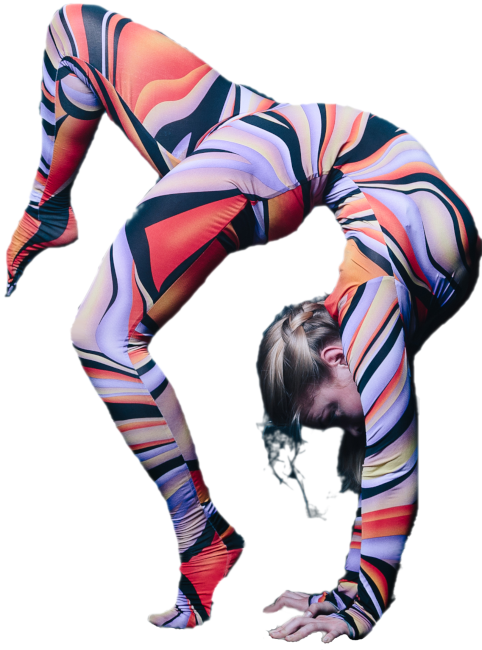
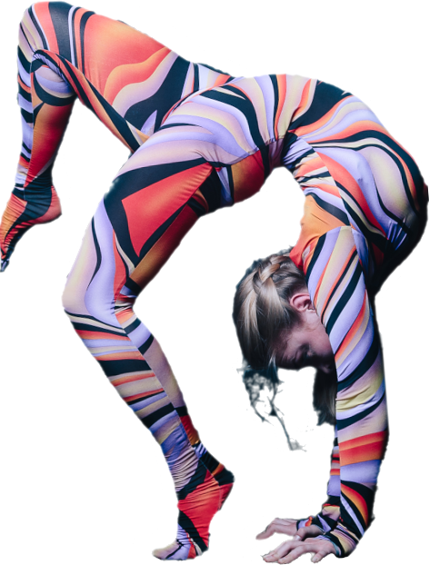
Circus folk image changes: adds CSS changes and removes old circus people images.

diff --git a/web/themes/custom/badcamp_2018/sass/components/_block_aboutbadcamp.scss b/web/themes/custom/badcamp_2018/sass/components/_block_aboutbadcamp.scss
@@ -1,18 +1,18 @@
-#block-aboutbadcamp{
+#block-aboutbadcamp {
   @include background-img('../images/background-about.png', cover, center, repeat);
   color: $white;
 
-  > div{
+  > div {
     position: relative;
   }
 
-  p{
+  p {
     font-size: 28px;
     line-height: 1.36;
     margin: 0;
   }
 
-  .left{
+  .left {
     @include background-img('../images/left_stars.svg', contain);
   }
 
@@ -20,7 +20,7 @@
     @include background-img('../images/right_stars.svg', contain);
   }
 
-  .header-img{
+  .header-img {
     height: 100px;
     @include background-img('../images/about_badcamp.svg', cover);
     margin: 25px 0;
@@ -31,7 +31,7 @@
     }
   }
 
-  .footer-img{
+  .footer-img {
     @include background-img('../images/about_badcamp_bottom.svg', cover);
     height: 50px;
     margin: 35px 0;
@@ -41,13 +41,13 @@
     }
   }
 
-  .strongman{
-    @include background-img('../images/strongman.png', contain, bottom center);
+  .circusman {
+    @include background-img('../images/circusman.png', contain, bottom center);
 
-    width: 539px;
-    height: 687px;
+    width: 820px;
+    height: 636px;
     position: absolute;
-    left: -240px;
+    left: -575px;
     bottom: 0px;
 
     @include show-for(medium);

diff --git a/web/themes/custom/badcamp_2018/sass/components/_block_location.scss b/web/themes/custom/badcamp_2018/sass/components/_block_location.scss
@@ -18,10 +18,10 @@
     }
   }
 
-  .lady{
-    @include background-img('../images/lady.png', contain);
-    width: 475px;
-    height: 640px;
+  .circuslady{
+    @include background-img('../images/circuslady.png', contain);
+    width: 460px;
+    height: 600px;
 
     position: absolute;
     right: 0px;
